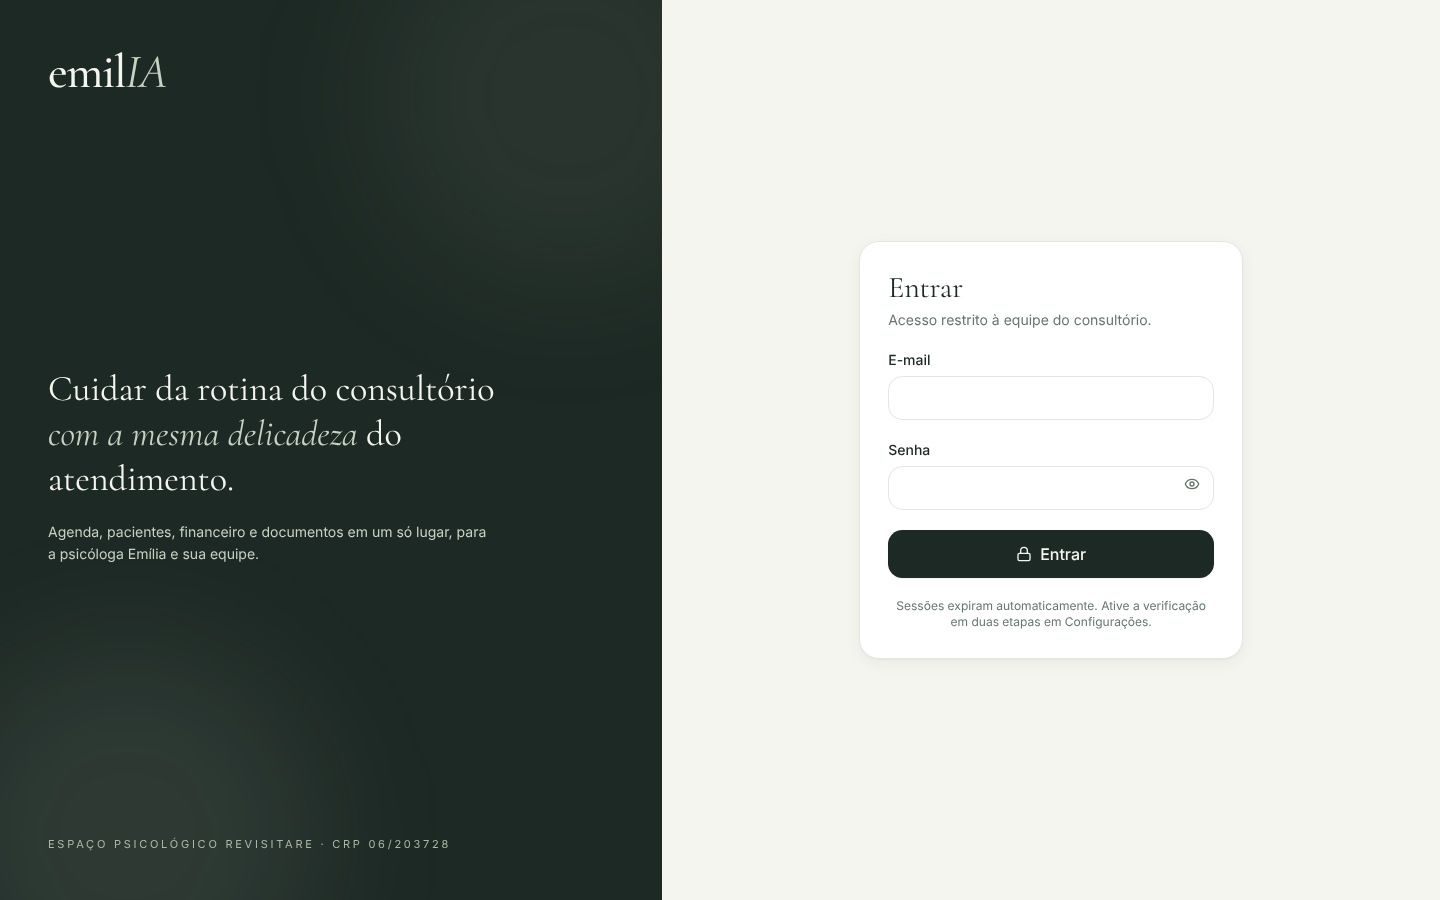
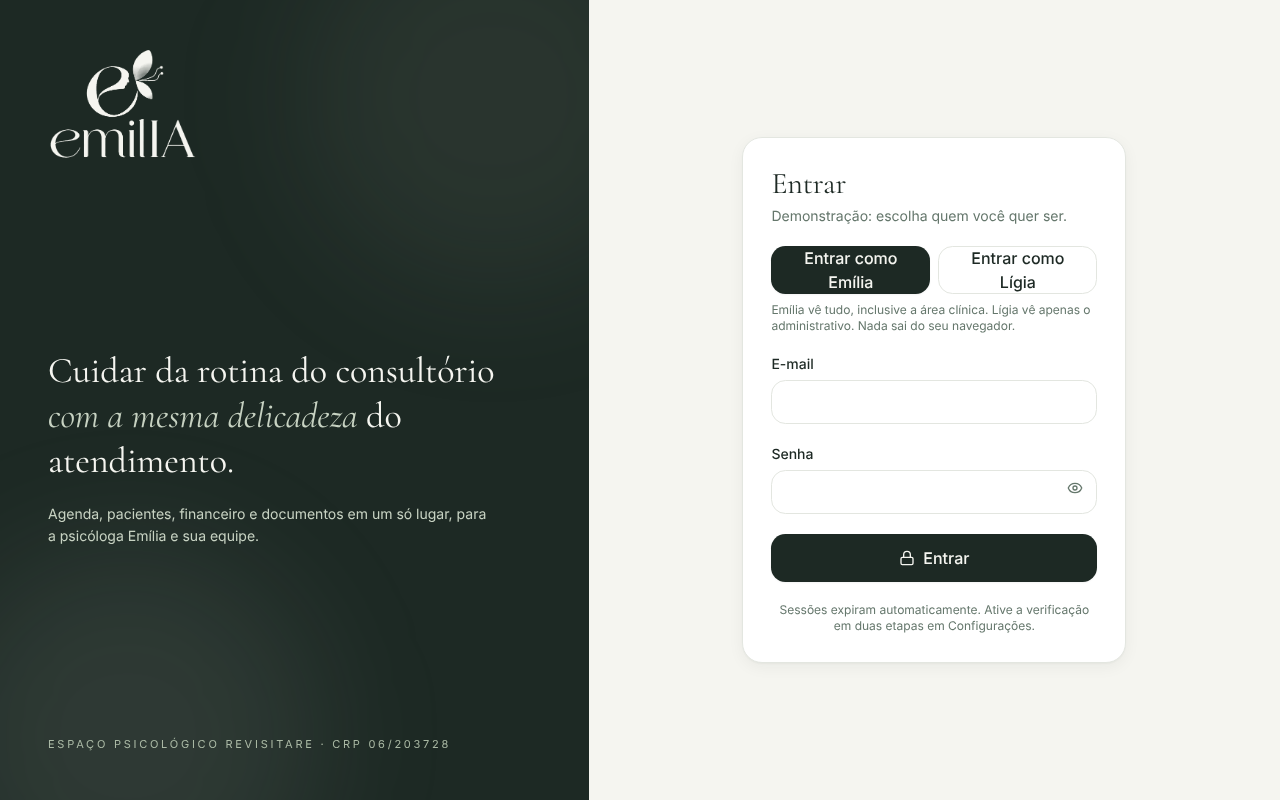
Logotipo oficial
Substitui a marca tipográfica pelo logotipo oficial (versões com fundo
transparente, clara para a barra lateral e símbolo isolado), novo favicon e
ícone para celular. O original fica em docs/brand.

Claude-Session: https://claude.ai/code/session_014aSNz7GJvVKAQf2mj7aEGe

diff --git a/apps/web/src/components/ui/Logo.tsx b/apps/web/src/components/ui/Logo.tsx
@@ -1,17 +1,20 @@
 import { cn } from "@/lib/cn";
 
 /**
- * Marca tipográfica provisória. Para usar o logotipo oficial, substitua o
- * conteúdo deste componente por uma imagem SVG mantendo as mesmas props.
+ * Logotipo oficial do emilIA. `tone="light"` usa a versão em creme para fundos
+ * escuros; `variant="mark"` mostra apenas o símbolo (o "e" com a borboleta).
  */
-export function Logo({ className, tone = "dark", size = "md" }: { className?: string; tone?: "dark" | "light"; size?: "sm" | "md" | "lg" }) {
-  const sizes = { sm: "text-2xl", md: "text-3xl", lg: "text-5xl" };
+export function Logo({ className, tone = "dark", size = "md", variant = "full" }: { className?: string; tone?: "dark" | "light"; size?: "sm" | "md" | "lg"; variant?: "full" | "mark" }) {
+  const heights = { full: { sm: "h-9", md: "h-12", lg: "h-20" }, mark: { sm: "h-7", md: "h-9", lg: "h-16" } }[variant];
+  const base = import.meta.env.BASE_URL.replace(/\/$/, "");
+  const file = variant === "mark" ? (tone === "light" ? "mark-light" : "mark") : tone === "light" ? "logo-light" : "logo";
+  // Na demonstração em arquivo único, as imagens vêm embutidas em window.__EMILIIA_BRAND__.
+  const inline = (window as unknown as { __EMILIIA_BRAND__?: Record<string, string> }).__EMILIIA_BRAND__?.[file];
+  const src = inline ?? `${base}/brand/${file}.png`;
+  // O invólucro evita que o flex estique a imagem na horizontal.
   return (
-    <span
-      className={cn("font-display font-medium leading-none tracking-tight select-none", sizes[size], tone === "dark" ? "text-forest" : "text-cream", className)}
-      aria-label="emilIA"
-    >
-      emil<span className={cn("italic font-normal", tone === "dark" ? "text-sage-500" : "text-sage-300")}>IA</span>
+    <span className="inline-block shrink-0 leading-none">
+      <img src={src} alt="emilIA" className={cn("block w-auto select-none", heights[size], className)} draggable={false} />
     </span>
   );
 }

diff --git a/apps/web/src/pages/LoginPage.tsx b/apps/web/src/pages/LoginPage.tsx
@@ -77,7 +77,7 @@ export function LoginPage() {
       <aside className="relative hidden w-[46%] flex-col justify-between overflow-hidden bg-forest p-12 text-cream lg:flex">
         <div className="pointer-events-none absolute -right-24 -top-24 h-96 w-96 rounded-full bg-sage-500/10 blur-3xl" aria-hidden />
         <div className="pointer-events-none absolute -bottom-32 -left-16 h-96 w-96 rounded-full bg-sage-300/10 blur-3xl" aria-hidden />
-        <Logo tone="light" size="lg" />
+        <Logo tone="light" size="lg" className="h-28" />
         <div className="relative max-w-md animate-rise">
           <p className="font-display text-4xl leading-tight text-cream">
             Cuidar da rotina do consultório <span className="italic text-sage-300">com a mesma delicadeza</span> do atendimento.
@@ -92,8 +92,8 @@ export function LoginPage() {
       <main className="flex flex-1 items-center justify-center px-5 py-10">
         <div className="w-full max-w-sm animate-rise">
           <div className="mb-8 lg:hidden">
-            <Logo size="lg" />
-            <p className="mt-1.5 text-[11px] uppercase tracking-[0.2em] text-ink-muted">Espaço Psicológico Revisitare</p>
+            <Logo size="lg" className="h-24" />
+            <p className="mt-2 text-[11px] uppercase tracking-[0.2em] text-ink-muted">Espaço Psicológico Revisitare</p>
           </div>
 
           {step === "credentials" ? (

diff --git a/apps/web/src/layout/AppShell.tsx b/apps/web/src/layout/AppShell.tsx
@@ -124,8 +124,8 @@ export function AppShell() {
       {/* Barra lateral — desktop */}
       <aside className="hidden w-64 shrink-0 flex-col bg-forest px-4 py-6 lg:fixed lg:inset-y-0 lg:flex">
         <div className="px-3 pb-6">
-          <Logo tone="light" />
-          <p className="mt-1.5 text-[11px] uppercase tracking-[0.2em] text-sage-400">Revisitare</p>
+          <Logo tone="light" size="lg" className="h-24" />
+          <p className="mt-2 text-[11px] uppercase tracking-[0.2em] text-sage-400">Revisitare</p>
         </div>
         <div className="flex-1 overflow-y-auto">
           <SideNav variant="sidebar" />
@@ -161,7 +161,7 @@ export function AppShell() {
             </Dialog.Content>
           </Dialog.Portal>
         </Dialog.Root>
-        <Logo size="sm" />
+        <Logo size="sm" variant="full" className="h-10" />
         <UserMenu compact />
       </header>
 

diff --git a/apps/web/index.html b/apps/web/index.html
@@ -6,7 +6,8 @@
     <meta name="theme-color" content="#1D2924" />
     <meta name="robots" content="noindex, nofollow" />
     <title>emilIA — Espaço Psicológico Revisitare</title>
-    <link rel="icon" href="/favicon.svg" type="image/svg+xml" />
+    <link rel="icon" href="/favicon.png" type="image/png" />
+    <link rel="apple-touch-icon" href="/apple-touch-icon.png" />
     <link rel="preconnect" href="https://fonts.googleapis.com" />
     <link rel="preconnect" href="https://fonts.gstatic.com" crossorigin />
     <link
